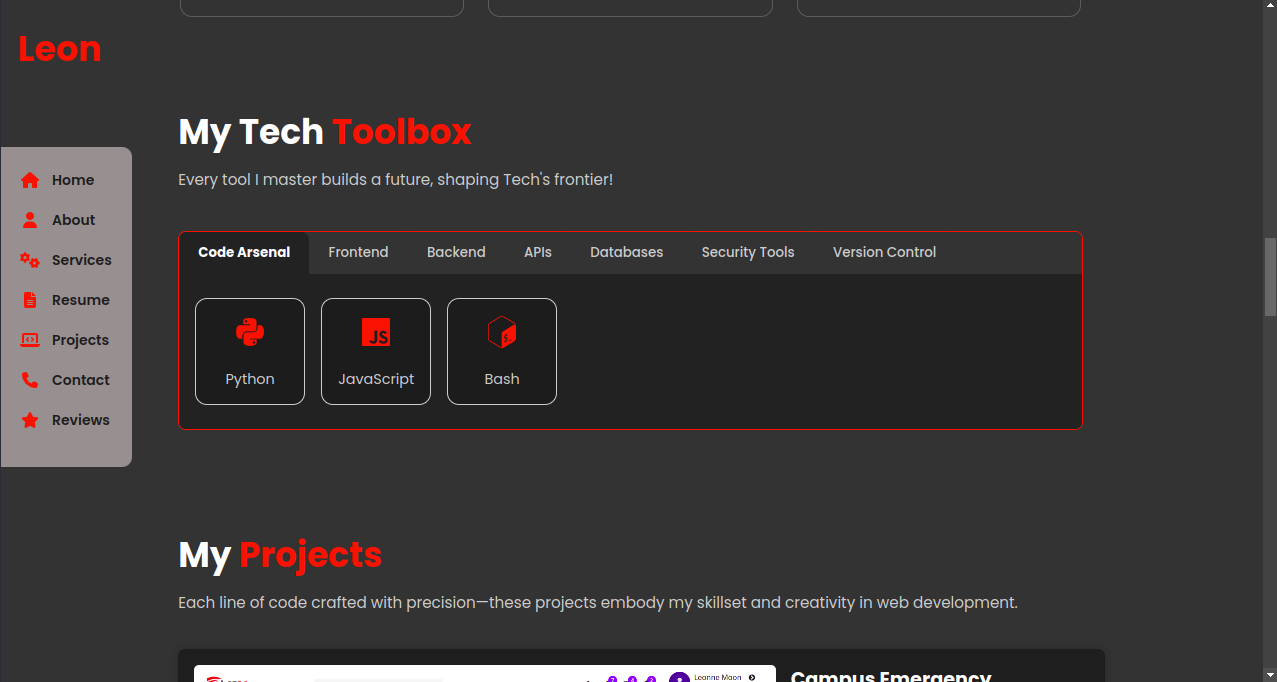
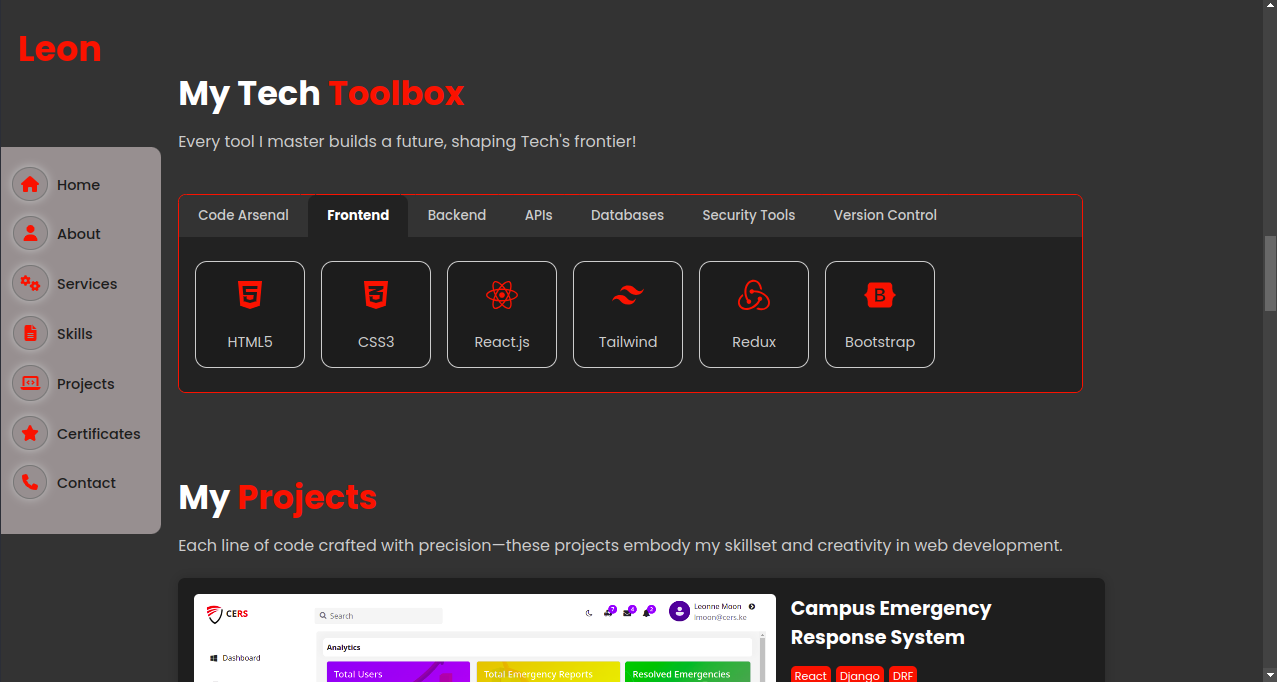
Update responsiveness

diff --git a/src/components/Navigation.js b/src/components/Navigation.js
@@ -1,7 +1,7 @@
 import React from "react";
 import { useState, useEffect } from "react";
 import { FontAwesomeIcon } from "@fortawesome/react-fontawesome";
-import { faHome, faCogs, faUser, faFileAlt, faPhone, faLaptopCode, faStar, faUserShield } from "@fortawesome/free-solid-svg-icons";
+import { faHome, faCogs, faUser, faFileAlt, faPhone, faLaptopCode, faStar, faUserShield, faBars } from "@fortawesome/free-solid-svg-icons";
 import TypewriterEffect from "./TypewriterEffect";
 
 
@@ -13,25 +13,52 @@ function Navigation(){
         'an Ethical Hacker'
     ]
 
+    // For Responsiveness and dynamic display
     const [isVisible, setIsVisible] = useState(true);
+    const [scrolled, setScrolled] = useState(false);
+    const [isMobile, setIsMobile] = useState(window.innerWidth <= 767);
+
 
     useEffect(() => {
         const handleScroll = () => {
-            const scrollPosition = window.scrollY;
+            const scrollY = window.scrollY;
+            const isMobile = window.innerWidth <= 767;
 
-            if (scrollPosition > 300) {
-                setIsVisible(false);
-            } else {
+            if (isMobile) {
+                setScrolled(scrollY >= 5);
                 setIsVisible(true);
+            } else {
+                setScrolled(false); // No scrolled feature on desktop
+                setIsVisible(scrollY <= 300);
             }
         };
 
-        window.addEventListener('scroll', handleScroll);
+        window.addEventListener("scroll", handleScroll);
 
-        return () => window.removeEventListener('scroll', handleScroll);
-
+        return () => {
+            window.removeEventListener("scroll", handleScroll);
+        };
     }, []);
 
+    useEffect(() => {
+        const handleResize = () => {
+            setIsMobile(window.innerWidth <= 767);
+        };
+    
+        window.addEventListener('resize', handleResize);
+        return () => window.removeEventListener('resize', handleResize);
+    }, []);
+    
+
+
+
+    // Toggle menu
+    const [menuUp, setMenuUp] = useState(false);
+
+    const toggleMenu = () => {
+        setMenuUp(prev => !prev);
+    }
+    
     return(
         <nav id="home">
             <div className="video-background">
@@ -40,7 +67,7 @@ function Navigation(){
                 </video> 
                 <div className="gradient-overlay"></div>
                 
-                <div className="nav-brand">
+                <div className={scrolled ? "nav-brand scrolled-nav" : "nav-brand" } >
                     <span id="name-pref">Leon</span>
                     {isVisible && <span id="hero-text"><FontAwesomeIcon icon={faUserShield} className="fa-hero-ico" />Developing and <span id="hero-text-span">Securing Systems</span></span>}
                 </div>
@@ -51,54 +78,62 @@ function Navigation(){
                     <a href="#projects"><button id="view-work-btn">View Work</button></a>
                     <a href="#contact"><button id="hire-me-btn">Hire Me</button></a>
                 </div>
+                <div className="nav-toggler-container" onClick={toggleMenu}>
+                    <FontAwesomeIcon icon={faBars} id="fa-toggler" />
+                </div>
+                
             </div>
-            <div className="nav-bar">
-                <ul>
-                    <li>
-                    <a href="#home" className="nav-link">
-                        <div className="ico-box"><FontAwesomeIcon icon={faHome} className="fa-ico" /></div>
-                        <div className="name-box"><span>Home</span></div>
-                    </a>
-                    </li>
-                    <li>
-                    <a href="#about" className="nav-link">
-                        <div className="ico-box"><FontAwesomeIcon icon={faUser} id="fa-ico-about" className="fa-ico" /></div>
-                        <div className="name-box"><span>About</span></div>
-                    </a>
-                    </li>
-                    <li>
-                    <a href="#services" className="nav-link">
-                        <div className="ico-box"><FontAwesomeIcon icon={faCogs} id="fa-ico-services" className="fa-ico" /></div>
-                        <div className="name-box"><span>Services</span></div>
-                    </a>
-                    </li>
-                    <li>
-                    <a href="#tech-stack" className="nav-link">
-                        <div className="ico-box"><FontAwesomeIcon icon={faFileAlt} id="fa-ico-resume" className="fa-ico" /></div>
-                        <div className="name-box"><span>Skills</span></div>
-                    </a>
-                    </li>
-                    <li>
-                    <a href="#projects" className="nav-link">
-                        <div className="ico-box"><FontAwesomeIcon icon={faLaptopCode} id="fa-ico-projects" className="fa-ico" /></div>
-                        <div className="name-box"><span>Projects</span></div>
-                    </a>
-                    </li>
-                    <li>
-                    <a href="#certifications" className="nav-link">
-                        <div className="ico-box"><FontAwesomeIcon icon={faStar} className="fa-ico" /></div>
-                        <div className="name-box"><span>Certificates</span></div>
-                    </a>
-                    </li>
-                    <li>
-                    <a href="#contact" className="nav-link">
-                        <div className="ico-box"><FontAwesomeIcon icon={faPhone} className="fa-ico" /></div>
-                        <div className="name-box"><span>Contact</span></div>
-                    </a>
-                    </li>
+            
+            {(isMobile && menuUp) || !isMobile ? (
+                <div className="nav-bar">
+                    <ul>
+                        <li>
+                        <a href="#home" className="nav-link">
+                            <div className="ico-box"><FontAwesomeIcon icon={faHome} className="fa-ico" /></div>
+                            <div className="name-box"><span>Home</span></div>
+                        </a>
+                        </li>
+                        <li>
+                        <a href="#about" className="nav-link">
+                            <div className="ico-box"><FontAwesomeIcon icon={faUser} id="fa-ico-about" className="fa-ico" /></div>
+                            <div className="name-box"><span>About</span></div>
+                        </a>
+                        </li>
+                        <li>
+                        <a href="#services" className="nav-link">
+                            <div className="ico-box"><FontAwesomeIcon icon={faCogs} id="fa-ico-services" className="fa-ico" /></div>
+                            <div className="name-box"><span>Services</span></div>
+                        </a>
+                        </li>
+                        <li>
+                        <a href="#tech-stack" className="nav-link">
+                            <div className="ico-box"><FontAwesomeIcon icon={faFileAlt} id="fa-ico-resume" className="fa-ico" /></div>
+                            <div className="name-box"><span>Skills</span></div>
+                        </a>
+                        </li>
+                        <li>
+                        <a href="#projects" className="nav-link">
+                            <div className="ico-box"><FontAwesomeIcon icon={faLaptopCode} id="fa-ico-projects" className="fa-ico" /></div>
+                            <div className="name-box"><span>Projects</span></div>
+                        </a>
+                        </li>
+                        <li>
+                        <a href="#certifications" className="nav-link">
+                            <div className="ico-box"><FontAwesomeIcon icon={faStar} className="fa-ico" /></div>
+                            <div className="name-box"><span>Certificates</span></div>
+                        </a>
+                        </li>
+                        <li>
+                        <a href="#contact" className="nav-link">
+                            <div className="ico-box"><FontAwesomeIcon icon={faPhone} className="fa-ico" /></div>
+                            <div className="name-box"><span>Contact</span></div>
+                        </a>
+                        </li>
+                        
+                    </ul>
                     
-                </ul>
-            </div>
+                </div>
+            ): null}       
 
         </nav>
     )

diff --git a/src/components/MyProjects.js b/src/components/MyProjects.js
@@ -4,42 +4,48 @@ const projects = [
       stack: ["React", "Django", "DRF"],
       description: "A fullstack system enabling real-time emergency reporting and swift response on campus.",
       image: "cers.png",
-      link: "https://github.com/LeonardOgendo/Campus-Emergency-Response-System/"
+      link: "https://github.com/LeonardOgendo/Campus-Emergency-Response-System/",
+      hosted: false,
     },
     {
       title: "E-commerce Application",
       stack: ["DTL", "Django"],
       description: "A complete e-commerce solution with cart, checkout, and admin controls using Django templates.",
-      image: "/ecommerce-app.jpg",
-      link: "https://github.com/LeonardOgendo/Ecommerce-Django-Web-Application/"
+      image: "ecommerce.png",
+      link: "https://github.com/LeonardOgendo/Ecommerce-Django-Web-Application/",
+      hosted: false,
     },
     {
       title: "Tech Consultancy Website",
       stack: ["SCSS", "HTML", "CSS", "Bootstrap"],
       description: "A professional, responsive landing page designed for tech consultancy firms.",
       image: "consultancy.png",
-      link: "https://github.com/LeonardOgendo/Tech-Consultancy-Website/"
+      link: "https://amden.co.ke/",
+      hosted: true,
     },
     {
       title: "E-Learning System",
       stack: ["React", "Django"],
       description: "An e-learning platform for managing courses, enrollments, and progress tracking.",
       image: "elearning.png",
-      link: "https://github.com/LeonardOgendo/EH-Academy-App/"
+      link: "https://github.com/LeonardOgendo/EH-Academy-App/",
+      hosted: false,
     },
     {
       title: "Betting Model App",
       stack: ['In design'],
       description: "A machine learning-powered platform for football prediction and analytics.",
       image: "bettin_model.jpeg",
-      link: "#"
+      link: "#",
+      hosted: false,
     },
     {
       title: "Portfolio Website",
       stack: ["React", "CSS"],
       description: "This personal portfolio showcasing my development skills, projects, and more.",
       image: "portfolio.png",
-      link: "https://github.com/LeonardOgendo/My_React_Portfolio/"
+      link: "https://github.com/LeonardOgendo/My_React_Portfolio/",
+      hosted: true,
     }
   ];
   
@@ -67,7 +73,7 @@ const projects = [
                   </div>
                   <div>
                     <a href={project.link} className="project-link" target="_blank" rel="noopener noreferrer">
-                        View on GitHub →
+                      {project.hosted ? "Visit Site →" : "View on GitHub →"}
                     </a>
                   </div>
                 </div> 

diff --git a/src/components/Contact.js b/src/components/Contact.js
@@ -1,7 +1,7 @@
 import React, { useRef } from "react";
 import emailjs from "@emailjs/browser";
 import ImageSlider from "./ImageSlider";
-import { FaEnvelope, FaLinkedin, FaTwitter, FaXTwitter } from 'react-icons/fa';
+import {  FaLinkedin, FaGithub } from 'react-icons/fa';
 
 const Contact = () => {
   const form = useRef();
@@ -10,10 +10,10 @@ const Contact = () => {
     e.preventDefault();
     emailjs
       .sendForm(
-        "your_service_id",     // Replace with your EmailJS service ID
-        "your_template_id",    // Replace with your EmailJS template ID
+        "service_zck1xkp",     // Replace with your EmailJS service ID
+        "template_w40hp2o",    // Replace with your EmailJS template ID
         form.current,
-        "your_user_public_key" // Replace with your public key
+        "dlBp6sQi_QMyXsOWn" // Replace with your public key
       )
       .then(
         (result) => {
@@ -37,12 +37,12 @@ const Contact = () => {
             <div className="social">
               <p>Or directly on: </p>
               <a href="#"><FaLinkedin /></a>
-              <a href="#"><FaTwitter /></a>
+              <a href="#"><FaGithub /></a>
             </div>
         </div>
         <form ref={form} onSubmit={sendEmail} className="contact-form">
-            <input type="text" name="user_name" placeholder="Your Name" required />
-            <input type="email" name="user_email" placeholder="Your Email" required />
+            <input type="text" name="name" placeholder="Your Name" required />
+            <input type="email" name="email" placeholder="Your Email (For Reply)" required />
             <textarea name="message" placeholder="Your Message" rows="5" required />
             <button type="submit">Send Message</button>
         </form>

diff --git a/src/styles.css b/src/styles.css
@@ -759,15 +759,39 @@ html {
 }
 
 
+.nav-toggler-container {
+  position: fixed;
+  top: 30%;
+  left: -5px;
+  z-index: 9999;
+  background-color: #fd4312;
+  border-radius: 50%;
+  cursor: pointer;
+  transition: background-color 0.3s ease;
+  display: none;
+}
+
+#fa-toggler {
+  color: #fff;
+}
+
 /*-- Responsiveness (Smartphones) --*/
 
 @media (max-width: 767px) {
   .nav-brand {
     padding-left: 10px;
   }
-  .nav-bar {
-    display: none;
+  .scrolled-nav {
+    position: fixed;
+    top: 0;
+    background: #1c1c1c;
+    padding-top: 10px;
+    padding-bottom: 10px;
+    border-bottom-left-radius: 5px;
+    border-bottom-right-radius: 5px;
+
   }
+
   #name-pref {
     font-size: 1.5rem;
   }
@@ -775,6 +799,9 @@ html {
     font-size: 0.8rem;
     padding-top: 10px;
     padding-right: 10px;
+  }
+  #hero-text-span {
+    color: #fd4312;
   }
   #cont {
     font-size: 20px;
@@ -792,6 +819,11 @@ html {
   {
       color: #fff;
       font-size: 20px;
+  }
+
+  .nav-toggler-container {
+    display: block;
+    padding: 5px 10px;
   }
 
   .header-btns
@@ -817,6 +849,8 @@ html {
       border-radius: 12px;
       font-size: 14px;
   }
+
+
   .section-body {
     width: 93%;
     margin: 0 auto;
